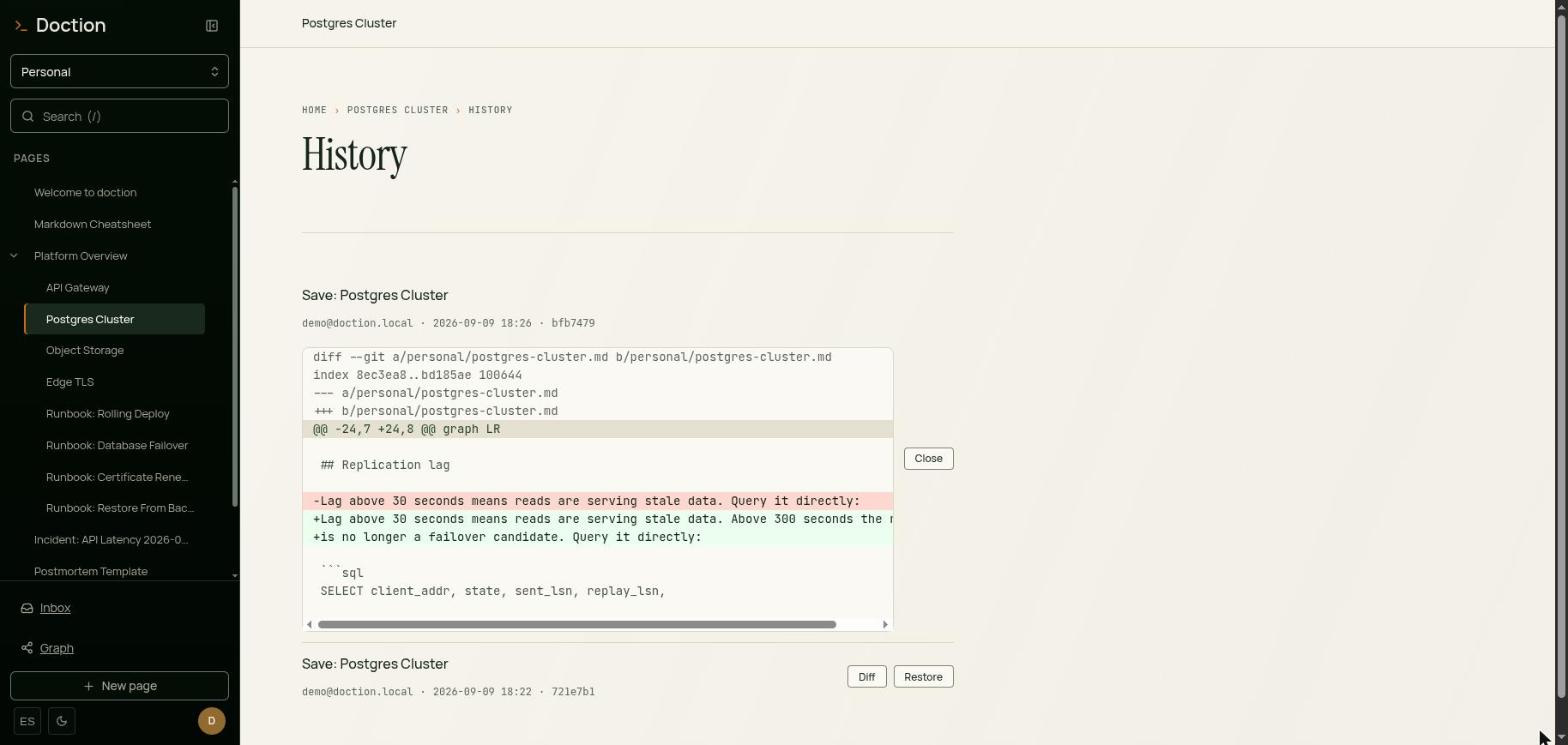
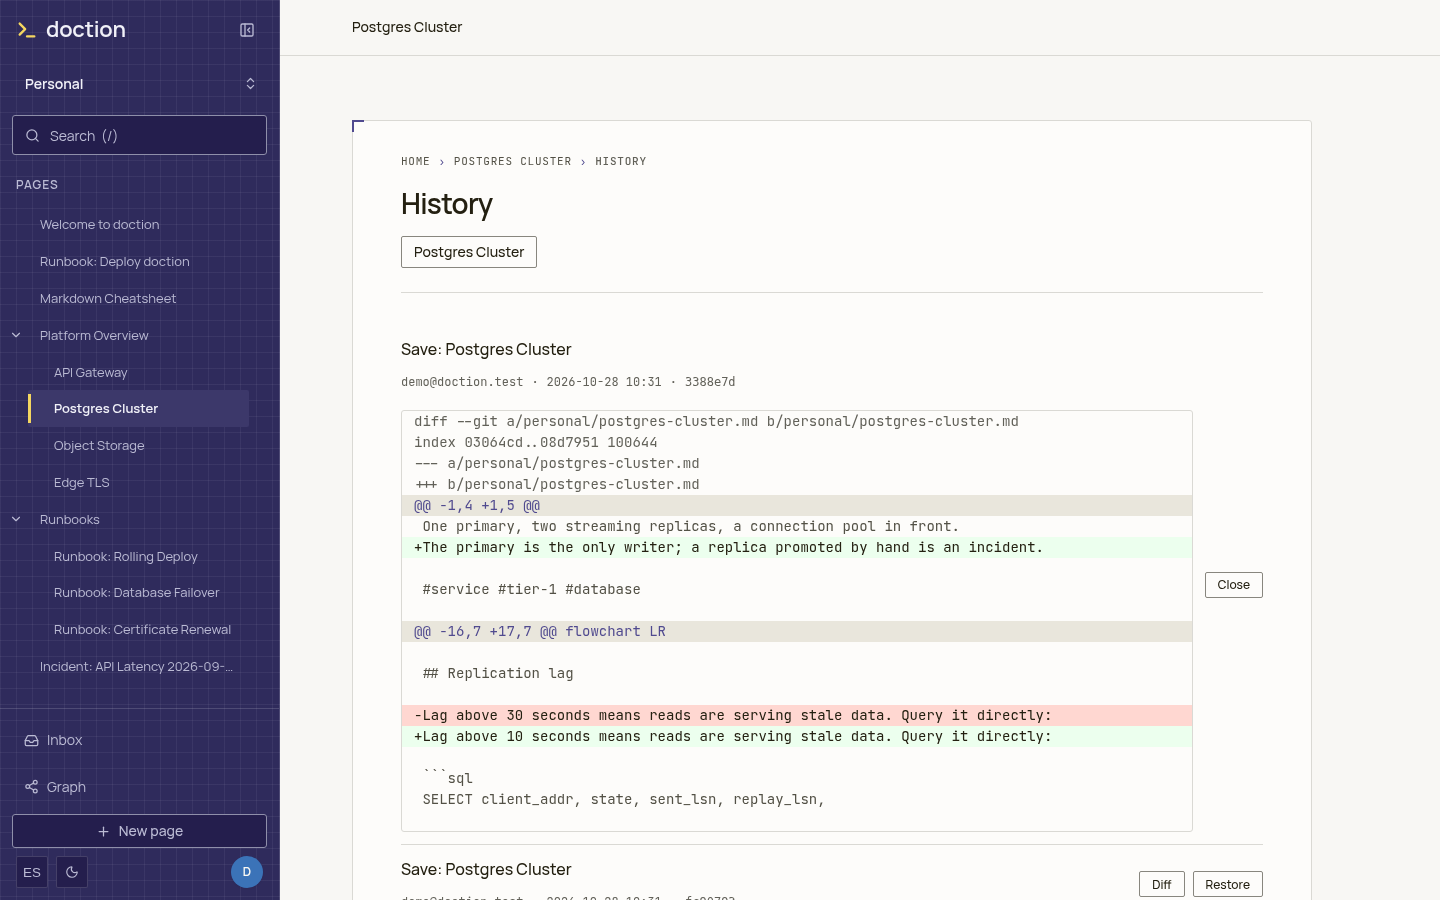
docs: refresh the README screenshots for the current design

diff --git a/README.md b/README.md
@@ -14,11 +14,11 @@ container + a Postgres container — no API keys, no SaaS, no LLM inside doction
 > repo; search runs locally; agents talk to it over a standard MCP interface. doction does
 > *retrieval* — the language model lives in your agent, not here.
 
-![doction reading a page: sidebar page tree, table of contents, a mermaid diagram and a highlighted SQL block, all rendered client-side from stored markdown](docs/assets/ui.png)
+![doction reading a page: sidebar page tree, table of contents, a mermaid diagram and a SQL block, all rendered client-side from stored markdown](docs/assets/ui.png)
 
 Every save is a git commit, so any page's history is a real diff:
 
-![The history view of a page, showing a git diff with one line removed and two added](docs/assets/history.png)
+![The history view of a page, showing a git diff with one line added and one changed](docs/assets/history.png)
 
 ---
 
